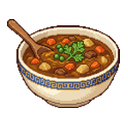
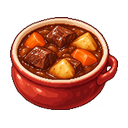
Give kitchen meals clearer food-first silhouettes

diff --git a/src/lib/foodMeta.ts b/src/lib/foodMeta.ts
@@ -106,12 +106,12 @@ export const RETIRED_SHOP_FOODS: Readonly<Partial<Record<FoodKey, FoodKey>>> = {
   sushi: 'nigiri',
 }
 
-// foodArt()'s cache-bust for plates and donuts (see below). Bump it when
+// foodArt()'s cache-bust for food sprites and donuts (see below). Bump it when
 // their art changes. The cans' version is generated with their art.
-const FOOD_ART_V = 5
+const FOOD_ART_V = 6
 
 /**
- * URL for a plate/can PNG in public/food.
+ * URL for a food/can PNG in public/food.
  *
  * The ?v= is a cache-buster: the service worker serves images
  * stale-while-revalidate, so replacing a file at the same path needs the query

diff --git a/scripts/check_food_silhouettes.py b/scripts/check_food_silhouettes.py
@@ -1,0 +1,45 @@
+"""Read-only checks for the 13 food-first sprites. Requires Pillow."""
+from collections import deque
+from hashlib import sha256
+from pathlib import Path
+
+from PIL import Image
+
+ROOT = Path(__file__).resolve().parents[1]
+IDS = (
+    'steak carbonara risotto gyoza cevapi sarma meatballs roast_chicken '
+    'ramen pad_thai paella stew xiaolongbao'
+).split()
+hashes = set()
+for food in IDS:
+    image = Image.open(ROOT / 'public/food' / (food + '.png'))
+    assert image.mode == 'RGBA' and image.size == (128, 128), food
+    alpha = image.getchannel('A')
+    assert all(alpha.getpixel(point) == 0 for point in ((0, 0), (127, 0), (0, 127), (127, 127))), food
+    bbox = alpha.point(lambda value: 255 if value >= 8 else 0).getbbox()
+    assert bbox is not None, food
+    left, top, right, bottom = bbox
+    assert left >= 2 and top >= 2 and right <= 126 and bottom <= 126, (food, bbox)
+    assert abs(left + right - 128) <= 2 and abs(top + bottom - 128) <= 2, (food, bbox)
+    assert 96 <= ((right - left) * (bottom - top)) ** 0.5 <= 104, (food, bbox)
+    solid = {(x, y) for y in range(128) for x in range(128) if alpha.getpixel((x, y)) >= 128}
+    assert len(solid) >= 4000, (food, len(solid))
+    remaining = solid.copy()
+    components = []
+    while remaining:
+        queue = deque([remaining.pop()])
+        size = 0
+        while queue:
+            x, y = queue.popleft()
+            size += 1
+            for point in ((x-1,y), (x+1,y), (x,y-1), (x,y+1)):
+                if point in remaining:
+                    remaining.remove(point)
+                    queue.append(point)
+        components.append(size)
+    assert max(components) / len(solid) > 0.995, (food, components)
+    digest = sha256(image.tobytes()).hexdigest()
+    assert digest not in hashes, food
+    hashes.add(digest)
+    print(f'{food}: centered, transparent, connected 128px sprite; {len(solid)} visible pixels')
+print('All 13 food silhouettes passed.')

diff --git a/docs/food-silhouette-refresh.md b/docs/food-silhouette-refresh.md
@@ -1,0 +1,135 @@
+# Food Silhouette Refresh
+
+## Audit And Direction
+
+Reviewed all 77 inventory foods: 38 active ordinary foods, two retired aliases, 27 donuts and ten Purrbolt drinks. The previous seven-food completion remains intact. Large pale serving plates made several older dishes read as similar white ovals and reduced the food's visible area at 62px. Thirteen dishes have new food-first sprites. The remaining 62 unique pictures were retained because their silhouettes already identify their food or container clearly.
+
+- Remove presentation plates, boards, separate sides and utensils from solid food.
+- Use one compact complete food silhouette; show a few large defining ingredients rather than many tiny garnishes.
+- Keep necessary serving vessels for broth, stew and loose mixed dishes, but simplify their rims and ornament.
+- Retain transparent backgrounds, centered 128px production canvases and the existing size-normalization pipeline.
+- No changes to stored item keys, stock, prices, food stats, daily-menu availability, rewards or special-can effects.
+
+## Full Catalogue Decisions
+
+| Group | Retained | Redesigned |
+| --- | --- | --- |
+| Dry | Kibble, Cat Treat, Biscuit | None |
+| Seafood | Tuna Can, Shrimp, Salmon, Sardine | None |
+| Meat | Chicken drumstick, Sausage | Steak: meat and butter only, no platter |
+| Dairy | Cream, Milk, Cheese, Yogurt, Egg | None |
+| Sweets | Cake, Cookie, Jelly Caka | None |
+| Italian | Pizza, Lasagna | Carbonara: pasta nest; Risotto: mushroom rice mound |
+| Sushi | Nigiri, Temaki, Maki | None |
+| Asian | None | Ramen: plain red bowl; Pad Thai: compact takeaway carton; Gyoza: three standalone dumplings; Soup Buns: low open bamboo basket, no lid |
+| Balkan | Doner | Cevapi: sausages tucked in flatbread; Sarma: standalone cabbage rolls |
+| World | Tacos, Wrap | Paella: shallow pan with larger toppings; Stew: small plain cooking crock; Meatballs: three sauced meatballs; Roast Chicken: whole roast, no board |
+| Donuts | All 27 existing designs, including the two sold in the kitchen | None |
+| Energy | All ten Purrbolt cans and moving special-edition effects | None |
+| Legacy | Fish still aliases Sardine; Sushi still aliases Nigiri | Neither returned to the shop |
+
+## Production And Verification
+
+Assets: `public/food/{steak,carbonara,risotto,gyoza,cevapi,sarma,meatballs,roast_chicken,ramen,pad_thai,paella,stew,xiaolongbao}.png`.
+
+Generated with the built-in image generation tool on 2026-10-27, true alpha transparency requested. Only the 13 selected files were passed through the existing `normalise()` function in `scripts/normalize_food_art.py`. This mechanically trims alpha padding, resizes and centers; it does not draw or erase image content. Original generated outputs remain in the local generated-images library. `FOOD_ART_V` is 6 so existing phones request the updated pictures; can artwork and its independent version are unchanged.
+
+Checks: `node scripts/check_kitchen_food.cjs`, `npx tsc --noEmit` and `python scripts/check_food_silhouettes.py` (Pillow required). The last checks dimensions, actual transparency, visible bounds, centering, connected silhouettes and unique content. Local review pictures are in `review-pictures/food-silhouettes/`. Browser review uses the real kitchen component with isolated mock wallet/fridge data, not the production database.
+
+Browser verification covered all five changed shop categories, the lower rows of longer shelves, all 13 selected-food tray pictures and the five corresponding fridge categories at 390x844 and 360x740. No missing food images or horizontal overflow occurred. A mock Steak purchase reduced the test balance from 100000 to 99970 and increased its fridge stock from two to three. Actual touch-drag feeding was not automated. The external esbuild preview emits its existing styled-jsx attribute warnings; no production UI code or backend behavior was changed.
+
+## Generation Prompts
+
+Each entry below is the exact full prompt for its separate built-in generation call. No reference images were supplied.
+
+### steak
+
+Source: `C:/Users/Lenovo/.codex/generated_images/019e97b4-0449-7fa0-a2e0-51cbf0e76694/exec-5d691974-c826-4b44-9a33-7da390153604.png`.
+
+Use case: stylized-concept. Production asset for Eren, a cozy 2D pixel-art care game: one isolated FOOD sprite, not a scene. Handcrafted 16-bit food-game artwork with crisp visible square pixel clusters, clear 1-2 pixel warm dark-brown contour at final 128px size, compact readable shapes, restrained highlights and warm shading, appetizing and cute. Slight overhead three-quarter front view, consistent gently elevated camera. Pixel art, not smooth 3D, not vector, not photorealistic, not painterly. Entire compact object centered on square canvas, occupying about 80 percent, all edges visible with transparent margins. Real alpha-transparent background. No ground plane, external cast shadow, utensils, scenery, text, lettering, logos, faces, characters, extra props, decorative sparkles, comparison panels, duplicate mini versions, checkered background. Food is the visual subject, not tableware.
+Subject: A single thick juicy cooked beef steak, rounded irregular cut, dark caramel-brown crosshatched grill marks and rosy warm-brown side edge, one tiny melting butter square on top. The meat itself fills the silhouette. NO plate, platter, board, tomatoes, salad, loose herbs or side dishes.
+
+### carbonara
+
+Source: `C:/Users/Lenovo/.codex/generated_images/019e97b4-0449-7fa0-a2e0-51cbf0e76694/exec-4604c9bd-a254-4eb9-98ea-1936ce37def9.png`.
+
+Use case: stylized-concept. Production asset for Eren, a cozy 2D pixel-art care game: one isolated FOOD sprite, not a scene. Handcrafted 16-bit food-game artwork with crisp visible square pixel clusters, clear 1-2 pixel warm dark-brown contour at final 128px size, compact readable shapes, restrained highlights and warm shading, appetizing and cute. Slight overhead three-quarter front view, consistent gently elevated camera. Pixel art, not smooth 3D, not vector, not photorealistic, not painterly. Entire compact object centered on square canvas, occupying about 80 percent, all edges visible with transparent margins. Real alpha-transparent background. No ground plane, external cast shadow, utensils, scenery, text, lettering, logos, faces, characters, extra props, decorative sparkles, comparison panels, duplicate mini versions, checkered background. Food is the visual subject, not tableware.
+Subject: A compact rounded nest of golden spaghetti carbonara, looping thick strands coated in ivory sauce, a few chunky browned pancetta pieces, fine cream-yellow parmesan highlight pixels and pepper specks. Read as carbonara, not tomato pasta. A substantial self-contained pasta mound with dark gold shaded underside. NO plate, bowl, container, fork, raw egg yolk, salad or garnish surrounding it.
+
+### risotto
+
+Source: `C:/Users/Lenovo/.codex/generated_images/019e97b4-0449-7fa0-a2e0-51cbf0e76694/exec-8a4896ea-fb33-4a86-9190-590d6f2fbe74.png`.
+
+Use case: stylized-concept. Production asset for Eren, a cozy 2D pixel-art care game: one isolated FOOD sprite, not a scene. Handcrafted 16-bit food-game artwork with crisp visible square pixel clusters, clear 1-2 pixel warm dark-brown contour at final 128px size, compact readable shapes, restrained highlights and warm shading, appetizing and cute. Slight overhead three-quarter front view, consistent gently elevated camera. Pixel art, not smooth 3D, not vector, not photorealistic, not painterly. Entire compact object centered on square canvas, occupying about 80 percent, all edges visible with transparent margins. Real alpha-transparent background. No ground plane, external cast shadow, utensils, scenery, text, lettering, logos, faces, characters, extra props, decorative sparkles, comparison panels, duplicate mini versions, checkered background. Food is the visual subject, not tableware.
+Subject: A compact creamy golden mushroom risotto mound, low domed shape with distinct chunky short rice-grain clusters, three warm brown mushroom slices integrated into the top, subtle parmesan-yellow highlights. Thick creamy rice, not long spaghetti or paella. Self-contained food pickup silhouette with clearly defined rounded base. NO plate, bowl, bread, tomatoes, vegetables beside the mound or loose garnish.
+
+### gyoza
+
+Source: `C:/Users/Lenovo/.codex/generated_images/019e97b4-0449-7fa0-a2e0-51cbf0e76694/exec-7631f9df-b73d-4159-b382-87cf28f60e87.png`.
+
+Use case: stylized-concept. Production asset for Eren, a cozy 2D pixel-art care game: one isolated FOOD sprite, not a scene. Handcrafted 16-bit food-game artwork with crisp visible square pixel clusters, clear 1-2 pixel warm dark-brown contour at final 128px size, compact readable shapes, restrained highlights and warm shading, appetizing and cute. Slight overhead three-quarter front view, consistent gently elevated camera. Pixel art, not smooth 3D, not vector, not photorealistic, not painterly. Entire compact object centered on square canvas, occupying about 80 percent, all edges visible with transparent margins. Real alpha-transparent background. No ground plane, external cast shadow, utensils, scenery, text, lettering, logos, faces, characters, extra props, decorative sparkles, comparison panels, duplicate mini versions, checkered background. Food is the visual subject, not tableware.
+Subject: Three plump golden pan-fried gyoza dumplings in a close compact overlapping fan. Distinct curved half-moon shapes, clear pinched pleats along the top seams, pale ivory dough and toasted golden bottoms; one foremost dumpling shows its caramelized crispy underside. NO plate, bowl, sauce cup, chopsticks, herbs or scattered ingredients.
+
+### cevapi
+
+Source: `C:/Users/Lenovo/.codex/generated_images/019e97b4-0449-7fa0-a2e0-51cbf0e76694/exec-433d3802-3c9c-4f9d-bdee-c95527d0bb8c.png`.
+
+Use case: stylized-concept. Production asset for Eren, a cozy 2D pixel-art care game: one isolated FOOD sprite, not a scene. Handcrafted 16-bit food-game artwork with crisp visible square pixel clusters, clear 1-2 pixel warm dark-brown contour at final 128px size, compact readable shapes, restrained highlights and warm shading, appetizing and cute. Slight overhead three-quarter front view, consistent gently elevated camera. Pixel art, not smooth 3D, not vector, not photorealistic, not painterly. Entire compact object centered on square canvas, occupying about 80 percent, all edges visible with transparent margins. Real alpha-transparent background. No ground plane, external cast shadow, utensils, scenery, text, lettering, logos, faces, characters, extra props, decorative sparkles, comparison panels, duplicate mini versions, checkered background. Food is the visual subject, not tableware.
+Subject: Four short chunky grilled cevapi sausages tucked together into an open folded golden somun flatbread pocket, two tiny violet onion curls visible inside the bread. The bread wraps naturally around their lower halves, showing the four charred reddish-brown sausages clearly. Compact appetizing handheld silhouette. NO plate, board, loose side salad, knife, fork or surrounding garnish. Not a hotdog in a long bun.
+
+### sarma
+
+Source: `C:/Users/Lenovo/.codex/generated_images/019e97b4-0449-7fa0-a2e0-51cbf0e76694/exec-acf1d381-3faa-4f14-bd77-a1ba90a399f5.png`.
+
+Use case: stylized-concept. Production asset for Eren, a cozy 2D pixel-art care game: one isolated FOOD sprite, not a scene. Handcrafted 16-bit food-game artwork with crisp visible square pixel clusters, clear 1-2 pixel warm dark-brown contour at final 128px size, compact readable shapes, restrained highlights and warm shading, appetizing and cute. Slight overhead three-quarter front view, consistent gently elevated camera. Pixel art, not smooth 3D, not vector, not photorealistic, not painterly. Entire compact object centered on square canvas, occupying about 80 percent, all edges visible with transparent margins. Real alpha-transparent background. No ground plane, external cast shadow, utensils, scenery, text, lettering, logos, faces, characters, extra props, decorative sparkles, comparison panels, duplicate mini versions, checkered background. Food is the visual subject, not tableware.
+Subject: Three tightly rolled stuffed cabbage rolls close together in a compact triangular cluster, warm sage and olive-green translucent cabbage leaves, readable folds and seams, a spoonful of thick red-orange tomato sauce coating their bases, one cut end showing a few rice grains. No floating liquid, no loose background sauce. NO plate, bowl, bread, garnish or cutlery.
+
+### meatballs
+
+Source: `C:/Users/Lenovo/.codex/generated_images/019e97b4-0449-7fa0-a2e0-51cbf0e76694/exec-69b9a1a4-9ad9-4d05-bf2a-ee87fc18b414.png`.
+
+Use case: stylized-concept. Production asset for Eren, a cozy 2D pixel-art care game: one isolated FOOD sprite, not a scene. Handcrafted 16-bit food-game artwork with crisp visible square pixel clusters, clear 1-2 pixel warm dark-brown contour at final 128px size, compact readable shapes, restrained highlights and warm shading, appetizing and cute. Slight overhead three-quarter front view, consistent gently elevated camera. Pixel art, not smooth 3D, not vector, not photorealistic, not painterly. Entire compact object centered on square canvas, occupying about 80 percent, all edges visible with transparent margins. Real alpha-transparent background. No ground plane, external cast shadow, utensils, scenery, text, lettering, logos, faces, characters, extra props, decorative sparkles, comparison panels, duplicate mini versions, checkered background. Food is the visual subject, not tableware.
+Subject: Three plump browned meatballs in a tight triangular cluster, chunky glossy brick-red tomato sauce clinging to them, little warm highlights and tiny green herb pixels on the meatballs only. Compact clear individual round forms, no soup, no red puddle. NO plate, bowl, pasta, bread, utensil or scattered side garnish.
+
+### roast_chicken
+
+Source: `C:/Users/Lenovo/.codex/generated_images/019e97b4-0449-7fa0-a2e0-51cbf0e76694/exec-cea03890-3401-4ebd-a285-68e402858806.png`.
+
+Use case: stylized-concept. Production asset for Eren, a cozy 2D pixel-art care game: one isolated FOOD sprite, not a scene. Handcrafted 16-bit food-game artwork with crisp visible square pixel clusters, clear 1-2 pixel warm dark-brown contour at final 128px size, compact readable shapes, restrained highlights and warm shading, appetizing and cute. Slight overhead three-quarter front view, consistent gently elevated camera. Pixel art, not smooth 3D, not vector, not photorealistic, not painterly. Entire compact object centered on square canvas, occupying about 80 percent, all edges visible with transparent margins. Real alpha-transparent background. No ground plane, external cast shadow, utensils, scenery, text, lettering, logos, faces, characters, extra props, decorative sparkles, comparison panels, duplicate mini versions, checkered background. Food is the visual subject, not tableware.
+Subject: One plump whole roast chicken with tucked wings and two small drumsticks, glossy golden roasted skin, amber pixel shading, simple caramelized highlights. Charming compact whole roast silhouette, clearly distinct from a single drumstick. NO board, plate, platter, vegetables, herbs, citrus, loose garnish or steam.
+
+### ramen
+
+Source: `C:/Users/Lenovo/.codex/generated_images/019e97b4-0449-7fa0-a2e0-51cbf0e76694/exec-230f0170-748a-4f05-b24e-f33795c90f04.png`.
+
+Use case: stylized-concept. Production asset for Eren, a cozy 2D pixel-art care game: one isolated FOOD sprite, not a scene. Handcrafted 16-bit food-game artwork with crisp visible square pixel clusters, clear 1-2 pixel warm dark-brown contour at final 128px size, compact readable shapes, restrained highlights and warm shading, appetizing and cute. Slight overhead three-quarter front view, consistent gently elevated camera. Pixel art, not smooth 3D, not vector, not photorealistic, not painterly. Entire compact object centered on square canvas, occupying about 80 percent, all edges visible with transparent margins. Real alpha-transparent background. No ground plane, external cast shadow, utensils, scenery, text, lettering, logos, faces, characters, extra props, decorative sparkles, comparison panels, duplicate mini versions, checkered background. Food is the visual subject, not tableware.
+Subject: One compact deep coral-red ramen bowl with short visible ceramic sides and a plain ivory rim. The surface is mostly FOOD: golden curled noodles in amber broth, half an egg with orange yolk, one pink spiral fishcake, a small dark nori rectangle and two short spring-onion accents. Close-framed bowl, chunky simplified toppings and crisp pixel shading. NO patterned bowl borders, chopsticks, spoon, plate, side dishes or steam floating outside it.
+
+### pad_thai
+
+Source: `C:/Users/Lenovo/.codex/generated_images/019e97b4-0449-7fa0-a2e0-51cbf0e76694/exec-6e6f5451-6720-4be5-96ea-0aaab729535c.png`.
+
+Use case: stylized-concept. Production asset for Eren, a cozy 2D pixel-art care game: one isolated FOOD sprite, not a scene. Handcrafted 16-bit food-game artwork with crisp visible square pixel clusters, clear 1-2 pixel warm dark-brown contour at final 128px size, compact readable shapes, restrained highlights and warm shading, appetizing and cute. Slight overhead three-quarter front view, consistent gently elevated camera. Pixel art, not smooth 3D, not vector, not photorealistic, not painterly. Entire compact object centered on square canvas, occupying about 80 percent, all edges visible with transparent margins. Real alpha-transparent background. No ground plane, external cast shadow, utensils, scenery, text, lettering, logos, faces, characters, extra props, decorative sparkles, comparison panels, duplicate mini versions, checkered background. Food is the visual subject, not tableware.
+Subject: A small squat open kraft takeaway noodle carton, two folded short flaps at the rear, filled generously above the rim with orange-brown flat pad-thai noodles. One coral shrimp, a few pale bean-sprout strands, three peanut clusters and one small green lime wedge tucked into the noodles. Most of silhouette is the food. Muted tan carton, no print. NO bowl, plate, chopsticks, handle, separate lime or scattered garnish.
+
+### paella
+
+Source: `C:/Users/Lenovo/.codex/generated_images/019e97b4-0449-7fa0-a2e0-51cbf0e76694/exec-0a47ce38-ab79-4bf3-98b1-7515ef8feb67.png`.
+
+Use case: stylized-concept. Production asset for Eren, a cozy 2D pixel-art care game: one isolated FOOD sprite, not a scene. Handcrafted 16-bit food-game artwork with crisp visible square pixel clusters, clear 1-2 pixel warm dark-brown contour at final 128px size, compact readable shapes, restrained highlights and warm shading, appetizing and cute. Slight overhead three-quarter front view, consistent gently elevated camera. Pixel art, not smooth 3D, not vector, not photorealistic, not painterly. Entire compact object centered on square canvas, occupying about 80 percent, all edges visible with transparent margins. Real alpha-transparent background. No ground plane, external cast shadow, utensils, scenery, text, lettering, logos, faces, characters, extra props, decorative sparkles, comparison panels, duplicate mini versions, checkered background. Food is the visual subject, not tableware.
+Subject: A compact shallow charcoal cast-iron paella pan with two tiny stub handles and minimal thin visible pan rim, brimming with saffron-yellow rice, two coral shrimp, two dark open mussels, three green pea clusters and two red pepper strips. Rice dominates the silhouette, pan is a slim frame only. Chunky readable pixels, not intricate tiny scattered ingredients. NO plate under pan, cutlery, separate garnish, steam, lettering or ornamented container.
+
+### stew
+
+Source: `C:/Users/Lenovo/.codex/generated_images/019e97b4-0449-7fa0-a2e0-51cbf0e76694/exec-4f3bb90d-b385-462a-9e72-011c0c65af33.png`.
+
+Use case: stylized-concept. Production asset for Eren, a cozy 2D pixel-art care game: one isolated FOOD sprite, not a scene. Handcrafted 16-bit food-game artwork with crisp visible square pixel clusters, clear 1-2 pixel warm dark-brown contour at final 128px size, compact readable shapes, restrained highlights and warm shading, appetizing and cute. Slight overhead three-quarter front view, consistent gently elevated camera. Pixel art, not smooth 3D, not vector, not photorealistic, not painterly. Entire compact object centered on square canvas, occupying about 80 percent, all edges visible with transparent margins. Real alpha-transparent background. No ground plane, external cast shadow, utensils, scenery, text, lettering, logos, faces, characters, extra props, decorative sparkles, comparison panels, duplicate mini versions, checkered background. Food is the visual subject, not tableware.
+Subject: A small squat warm brick-red cooking crock with a tiny side handle, simple pale rim, filled to the top with thick glossy brown stew. Clearly visible three chunky beef cubes, two orange carrot pieces and two pale golden potato cubes, no tiny peas everywhere. Food surface dominates, pot low and compact, simple broad pixel shapes. NO plate, spoon, ladle, saucer, side dishes, floating steam, patterned crock or scenery.
+
+### xiaolongbao
+
+Source: `C:/Users/Lenovo/.codex/generated_images/019e97b4-0449-7fa0-a2e0-51cbf0e76694/exec-116ccb39-76dc-4475-980c-71cf1958826e.png`.
+
+Use case: stylized-concept. Production asset for Eren, a cozy 2D pixel-art care game: one isolated FOOD sprite, not a scene. Handcrafted 16-bit food-game artwork with crisp visible square pixel clusters, clear 1-2 pixel warm dark-brown contour at final 128px size, compact readable shapes, restrained highlights and warm shading, appetizing and cute. Slight overhead three-quarter front view, consistent gently elevated camera. Pixel art, not smooth 3D, not vector, not photorealistic, not painterly. Entire compact object centered on square canvas, occupying about 80 percent, all edges visible with transparent margins. Real alpha-transparent background. No ground plane, external cast shadow, utensils, scenery, text, lettering, logos, faces, characters, extra props, decorative sparkles, comparison panels, duplicate mini versions, checkered background. Food is the visual subject, not tableware.
+Subject: A low round honey-brown bamboo steamer basket containing three plump ivory xiaolongbao soup buns, each with a clear pinched pleated top and soft golden shading. Buns fill most of sprite, front bun larger and two tucked behind. Basket has one simple woven band and a small visible rim, NO lid anywhere, no stacked steamer, no plate, sauce cup, chopsticks, utensils, garnish, steam or separate props.
+

diff --git a/docs/kitchen-food-art.md b/docs/kitchen-food-art.md
@@ -6,7 +6,7 @@ Generated on 2026-10-27 with the built-in image generation tool. Seven remaining
 
 The new files are `public/food/{treat,sausage,cream,milk,cheese,yogurt,cookie}.png`. Each has real alpha transparency and is normalized with the existing `scripts/normalize_food_art.py` pipeline: 128-pixel square canvas, geometric-mean content target 100 pixels, maximum side 124 pixels, alpha-based centering. Only these seven files were normalized. Original generated PNGs remain in the local generated-images library.
 
-All known foods now render through the shared `FoodIcon` catalogue path. Plates and donuts use art version 5; the unchanged energy cans retain their generated version and moving effects.
+All known foods now render through the shared `FoodIcon` catalogue path. Food sprites and donuts now use art version 6 after the follow-up [food silhouette refresh](food-silhouette-refresh.md); the unchanged energy cans retain their generated version and moving effects.
 
 ## Retired Duplicates
 
